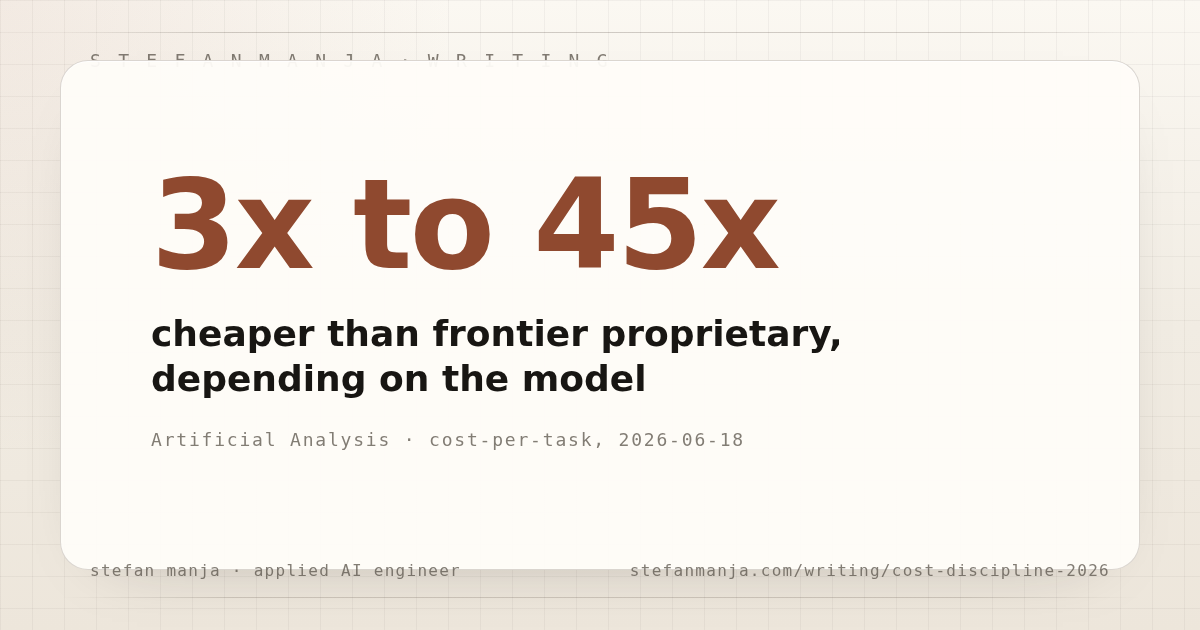
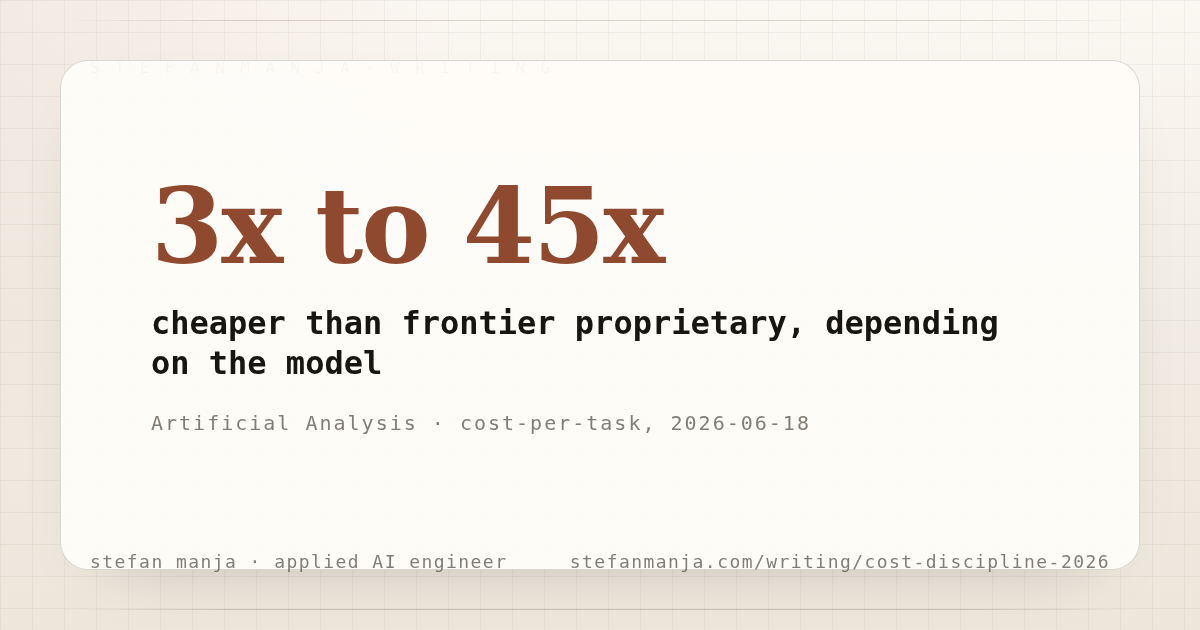
fix(blog): visual review — Plex Serif/Mono in OGs + hero, SVG padding, viewBox expand
3 categories of issues found in pre-merge visual review (PRs #49 + #50
already merged-clean; this is the post-build review pass before squash-merge
approval).

Category 1 — Brand voice guide §7 font-family compliance (5 fixes)
- OG hero stat: IBM Plex Sans -> IBM Plex Serif (+ Sans Condensed +
  Charter + Georgia fallback). Brand guide §7: hero h1 must be serif.
- OG label: Plex Sans -> Plex Mono
- OG attr: Plex Sans -> Plex Mono
- OG byline: Plex Sans -> Plex Mono
- Blog page .blog-hero__stat: Plex Sans Condensed -> Plex Serif
  (correct brand-guide substitute for the hero)
- Blog page .blog-hero__label: Plex Sans -> Plex Mono

Category 2 — Visual layout (4 fixes)
- .blog-svg-frame: add padding: 32px 40px (visual margin between border
  and viewBox content; fixes left-edge text touching the border on 5 SVGs)
- Cost chart viewBox: 0 0 880 290 -> -15 0 895 290 (the rotated '$ / query'
  axis label at x=-5 was outside the viewBox and got clipped)
- P99 chart viewBox: 0 0 880 280 -> -15 0 895 280 (same fix)
- OG top/bottom hairline rules: y=32/y=598 -> y=20/y=610 (move to canvas
  edge, well clear of the eyebrow + byline text that was at y=50/y=580).
  The 18px rule-to-text gap was causing the rules to visually cross
  through the upper portion of the eyebrow letters + lower portion of the
  byline letters. New 38px gap is well above the 16-18px ascender height.
- OG eyebrow: top: 50px -> top: 58px (right above frame at y=60)
[…]

diff --git a/src/styles/global.css b/src/styles/global.css
@@ -427,13 +427,14 @@ html[lang^="sr"] h4,
   .blog-hero__stat {
     @apply block font-semibold leading-none tracking-tight;
     color: var(--accent);
-    font-family: "IBM Plex Sans Condensed", "IBM Plex Sans", ui-sans-serif, system-ui, sans-serif;
+    font-family: "IBM Plex Serif", "IBM Plex Sans Condensed", "Charter", "Georgia", serif;
     font-size: clamp(3.5rem, 9vw, 6rem);
   }
 
   .blog-hero__label {
     @apply mt-4 block text-xl leading-7 sm:text-2xl;
     color: var(--ink);
+    font-family: "IBM Plex Mono", ui-monospace, SFMono-Regular, monospace;
   }
 
   .blog-hero__attr {
@@ -569,24 +570,26 @@ html[lang^="sr"] h4,
     @apply block h-auto w-full rounded-lg border;
     border-color: var(--rule);
     background: var(--paper);
+    padding: 32px 40px;
   }
 
   .blog-svg-text {
-    @apply text-sm;
     fill: var(--ink);
     font-family: "IBM Plex Mono", ui-monospace, SFMono-Regular, monospace;
+    font-size: 15px;
   }
 
   .blog-svg-text-accent {
-    @apply text-sm font-medium;
+    @apply font-medium;
     fill: var(--accent);
     font-family: "IBM Plex Mono", ui-monospace, SFMono-Regular, monospace;
+    font-size: 15px;
   }
 
   .blog-svg-text-faint {
-    @apply text-xs;
     fill: var(--ink-faint);
     font-family: "IBM Plex Mono", ui-monospace, SFMono-Regular, monospace;
+    font-size: 13px;
   }
 
   .blog-svg-line {

diff --git a/src/content/writing/rag-pilot-failures.md b/src/content/writing/rag-pilot-failures.md
@@ -139,7 +139,7 @@ The fix: log per-query cost from day one. Every retrieval has a cost. Every LLM 
 I have seen one team cut their per-query cost to roughly 0.55x with a single change: switching from top-k=20 to top-k=5 with a cross-encoder reranker. The model quality went up (reranker is more selective than dense retrieval) and the cost went down (fewer chunks to process, fewer tokens to the model). On the retrieved context alone, the cut was 4x; the total was 0.55x because the reasoning and output tokens stayed fixed. The team had been paying 4x more on retrieved context — for worse answers.
 
 <figure>
-  <svg class="blog-svg-frame" viewBox="0 0 880 290" xmlns="http://www.w3.org/2000/svg" role="img" aria-labelledby="fig-cost-title fig-cost-desc">
+  <svg class="blog-svg-frame" viewBox="-15 0 895 290" xmlns="http://www.w3.org/2000/svg" role="img" aria-labelledby="fig-cost-title fig-cost-desc">
     <title id="fig-cost-title">Cost per query before and after</title>
     <desc id="fig-cost-desc">Bar chart on a dollars-per-query axis. Left bar in muted ink shows 0.17 dollars for top-k equals 20 with 1k chunks. Right bar in terracotta shows 0.09 dollars for top-k equals 5 with reranker, also 1k chunks. A curved arrow from the first bar to the second is labelled 0.55x on total. Subtitle: reasoning tokens vary 1.5k to 3k; total 0.55x, retrieved context alone 4x.</desc>
     <defs>
@@ -170,7 +170,7 @@ I have seen one team cut their per-query cost to roughly 0.55x with a single cha
 A caveat: the mean cost per query tells a comforting lie. The p99 cost — the worst 1% of queries — is often 10-50x the median, driven by long prompts, long outputs, or retry loops on bad retrieval. Logging the mean is necessary; logging the p99 is what catches a single user with a runaway query before it shows up on the monthly bill. I have seen one team where 1% of users were generating 30% of the bill, and the mean — the average — masked the problem for two months.
 
 <figure>
-  <svg class="blog-svg-frame" viewBox="0 0 880 280" xmlns="http://www.w3.org/2000/svg" role="img" aria-labelledby="fig-p99-title fig-p99-desc">
+  <svg class="blog-svg-frame" viewBox="-15 0 895 280" xmlns="http://www.w3.org/2000/svg" role="img" aria-labelledby="fig-p99-title fig-p99-desc">
     <title id="fig-p99-title">p99 cost distribution across 1k queries</title>
     <desc id="fig-p99-desc">A horizontal bar with 99 small query bars at the median cost, followed by one tall terracotta bar at the far right labelled p99, 10 to 50x the median. The annotation points out that the mean of all 1k queries looks like the median, masking the p99 cost driver.</desc>
     <text class="blog-svg-text-faint" x="0" y="14">p99 / MEDIAN · 10–50x RATIO</text>
